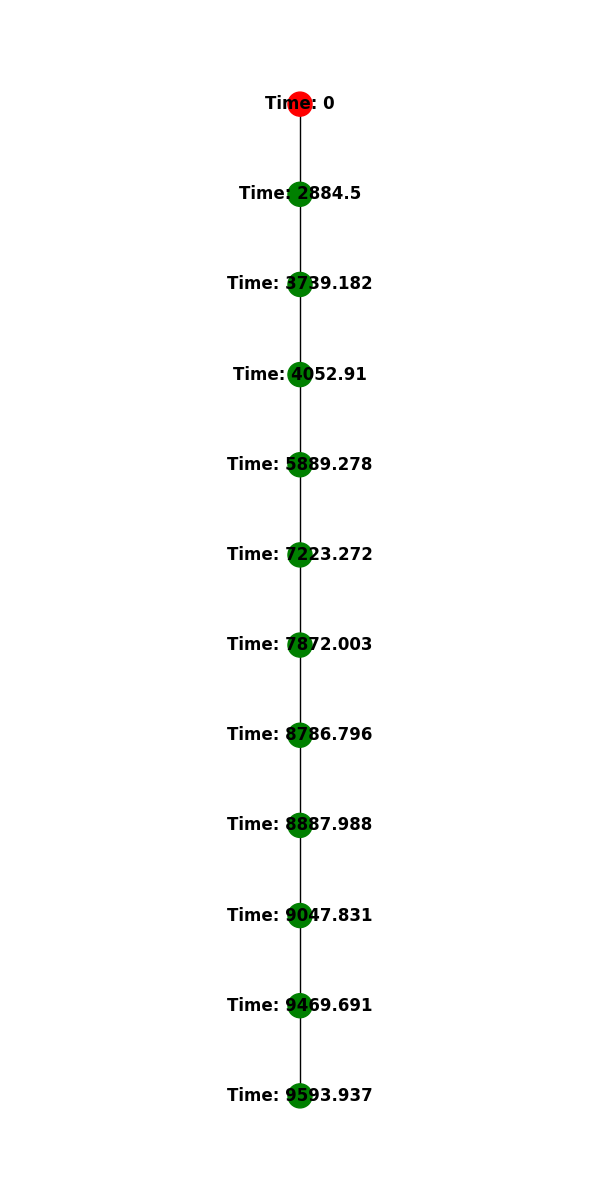
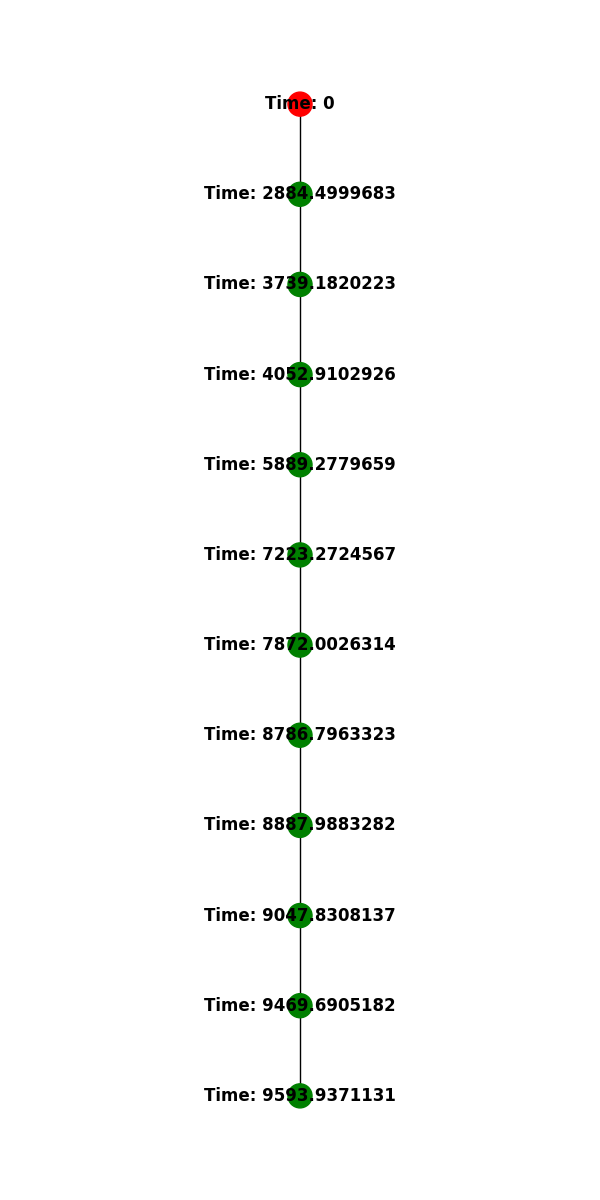
rounding change

diff --git a/network.py b/network.py
@@ -2,15 +2,6 @@ import networkx as nx
 import matplotlib.pyplot as plt
 import os
 import graphviz, argparse
-# G = nx.petersen_graph()
-
-# subax1 = plt.subplot(121)
-# nx.draw(G, with_labels = True, font_weight = 'bold')
-
-# subax2 = plt.subplot(122)
-# nx.draw_shell(G, nlist=[range(5, 10), range(5)], with_labels=True, font_weight='bold')
-
-# plt.show()
 
 import networkx as nx
 import random
@@ -93,7 +84,7 @@ for peer_index in range(num_trees):
         
         nodes.append(node)
         parents.append(parent)
-        times.append(round(time, 3))
+        times.append(round(time, 7))
         
         # print(f"node {node}, parent {parent}, time {time}")
         
